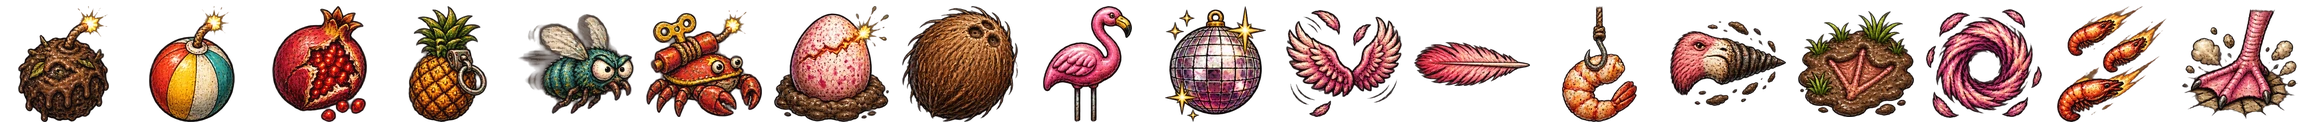
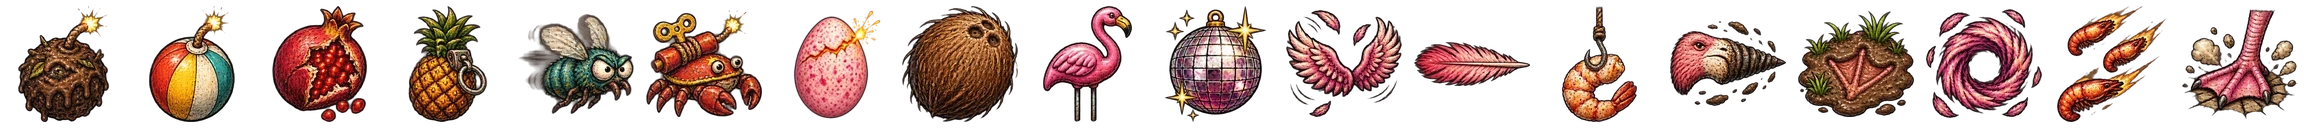
Make the Spellslingers Nest Egg a rolling egg
The egg drops from under its caster, bounces, rolls down slopes and off ledges, and
goes off wherever it stops. The sprite loses its mud nest so it reads as just an egg.

Amp-Thread-ID: https://ampcode.com/threads/T-01a20dea-505b-732e-9394-91916c4376f5

Changed region(s): [[0.3125, 0.0938, 0.4062, 0.9688]]

diff --git a/assets/js/hooks/spell_arena.ts b/assets/js/hooks/spell_arena.ts
@@ -41,8 +41,9 @@ type Spell = {
   range?: number | null;
 };
 
-// A blast rune waiting at its caster's feet for their turn to end.
-type Rune = { owner: string; x: number; y: number };
+// A Nest Egg waiting where it rolled to for its caster's turn to end: (x, y) is its
+// middle, and `spin` how far it turned rolling there.
+type Rune = { owner: string; x: number; y: number; spin?: number };
 
 // The shot a bot is lining up, shown before it fires.
 type BotAim = { spell: string; angle?: number; power?: number; x?: number; y?: number };
@@ -93,7 +94,7 @@ type ArenaState = {
   selected_spell: string;
   // The latest jump, numbered so each one plays once; its path is in unit cells.
   last_jump: { n: number; id: string; path: [number, number][] } | null;
-  physics: { dt: number; gravity: number; max_speed: number; wind_accel: number; playback_speed: number; place_range: number; grand_intro_ms?: number; intro_step_ms?: number; max_climb?: number };
+  physics: { dt: number; gravity: number; max_speed: number; wind_accel: number; playback_speed: number; place_range: number; grand_intro_ms?: number; intro_step_ms?: number; max_climb?: number; egg_radius?: number };
   // Steps left this turn, for walking ahead of the server.
   walk_left?: number;
 };
@@ -1233,13 +1234,23 @@ const SpellArena = {
       ctx.stroke();
     };
 
-    // Blast runes fizz at their caster's feet until the turn ends, then go off.
+    // Nest Eggs fizz where they rolled to until the turn ends, then go off. The egg rolls
+    // on the server as a circle of radius eggR() cells; the sprite's egg is about 0.73 of
+    // its cell wide, so this size makes the drawn egg a little wider than that circle.
+    const eggR = () => shown?.physics.egg_radius ?? 1;
+    const eggSize = () => (eggR() * 2.1 * scale()) / 0.73;
+    const drawEgg = (x: number, y: number, spin: number, size: number) => {
+      sprite("blastrune", x, y, size, spin);
+      // Sparks fly from the fuse at the top of its crack, wherever that has rolled to.
+      const [fx, fy] = [0.3 * size, -0.34 * size];
+      if (frame % 3 === 0) burst(x + fx * Math.cos(spin) - fy * Math.sin(spin), y + fx * Math.sin(spin) + fy * Math.cos(spin), "#fde047", 1, 25);
+    };
     const drawRunes = (t: number) => {
       if (!shown) return;
       const s = scale();
       for (const rune of shown.runes ?? []) {
         const x = rune.x * s;
-        const y = rune.y * s - 8;
+        const y = rune.y * s;
         const pulse = 0.5 + 0.5 * Math.sin(t / 90);
         const glow = ctx.createRadialGradient(x, y, 2, x, y, 26);
         glow.addColorStop(0, `rgba(217, 70, 239, ${0.35 + pulse * 0.35})`);
@@ -1248,8 +1259,7 @@ const SpellArena = {
         ctx.beginPath();
         ctx.arc(x, y, 26, 0, Math.PI * 2);
         ctx.fill();
-        sprite("blastrune", x, y, 18 + pulse * 2);
-        if (frame % 3 === 0) burst(x + 4, y - 10, "#fde047", 1, 25);
+        drawEgg(x, y, rune.spin ?? 0, eggSize() * (1 + pulse * 0.06));
       }
     };
 
@@ -1797,6 +1807,12 @@ const SpellArena = {
         const [ox, oy] = segment.path[0];
         chain(ox * s, oy * s, x * s, y * s);
         sprite("hook", x * s, y * s, 26, Math.sin(now() / 90) * 0.3);
+        return;
+      }
+      if (id === "blastrune") {
+        // The egg rolls without a trail, turning as far as it has rolled. When it goes
+        // off it is already drawn where it lies.
+        if (segment.radius === 0) drawEgg(x * s, y * s, (x - segment.path[0][0]) / eggR(), eggSize());
         return;
       }
       if (id === "blink") {
